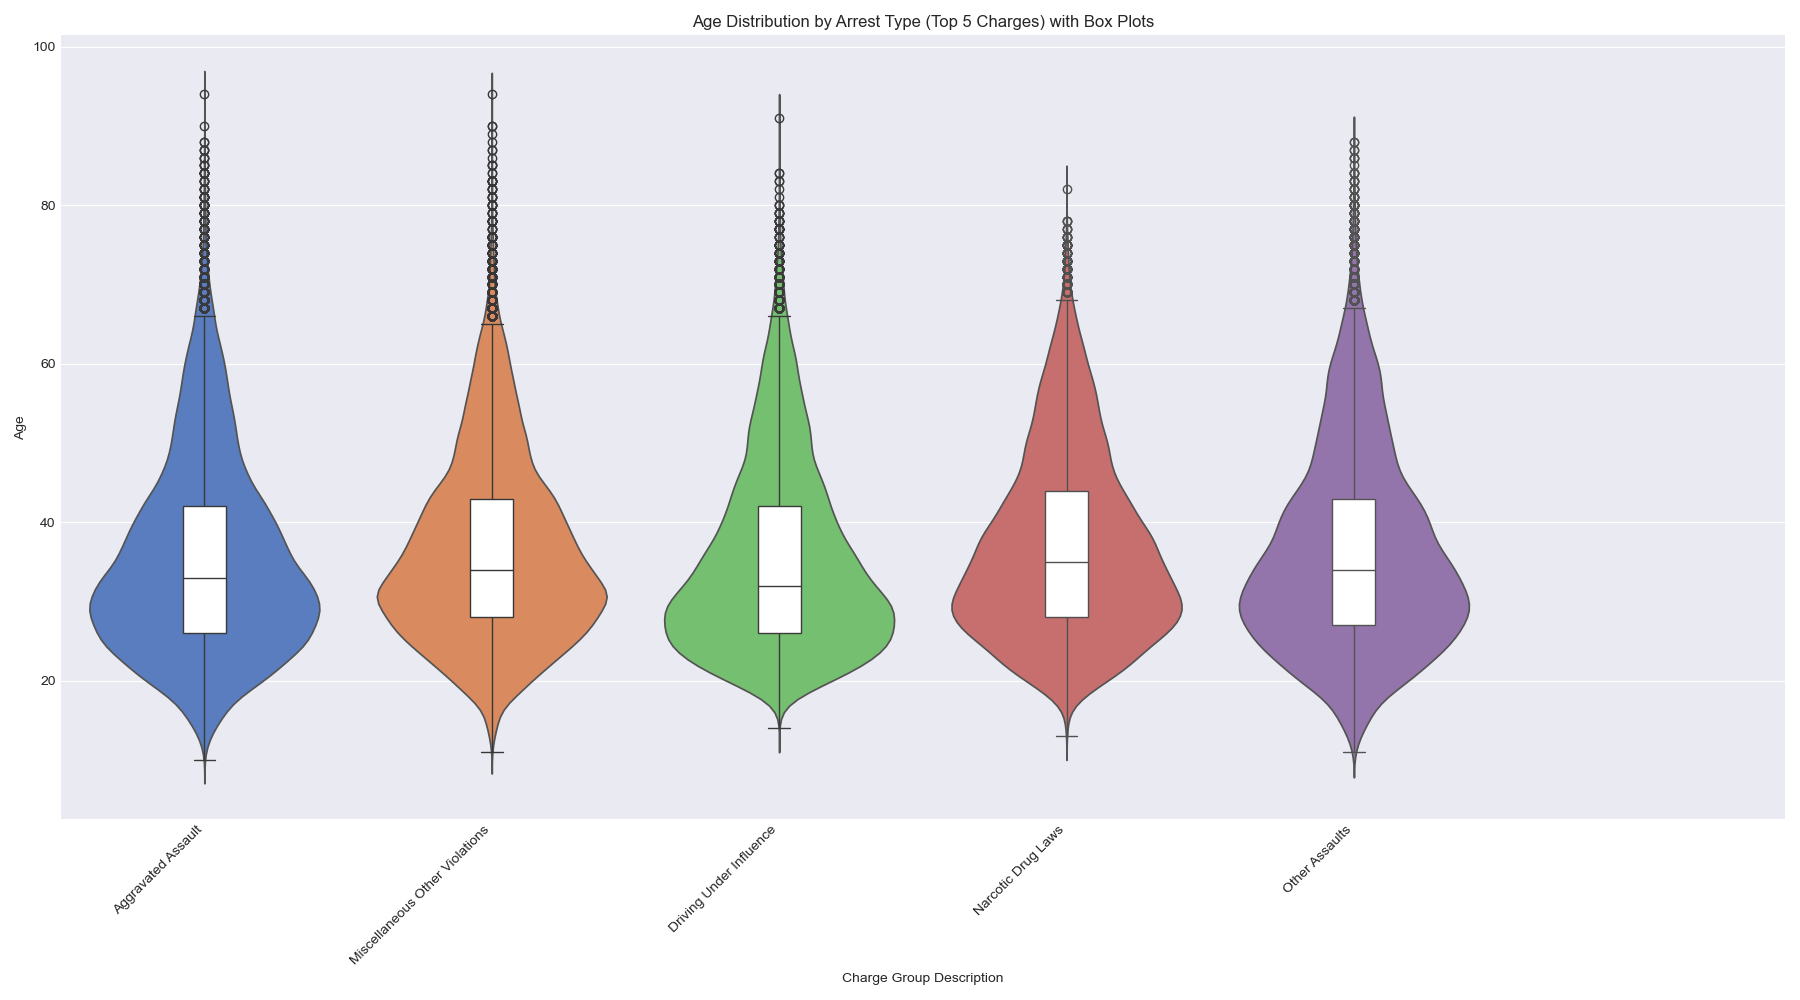
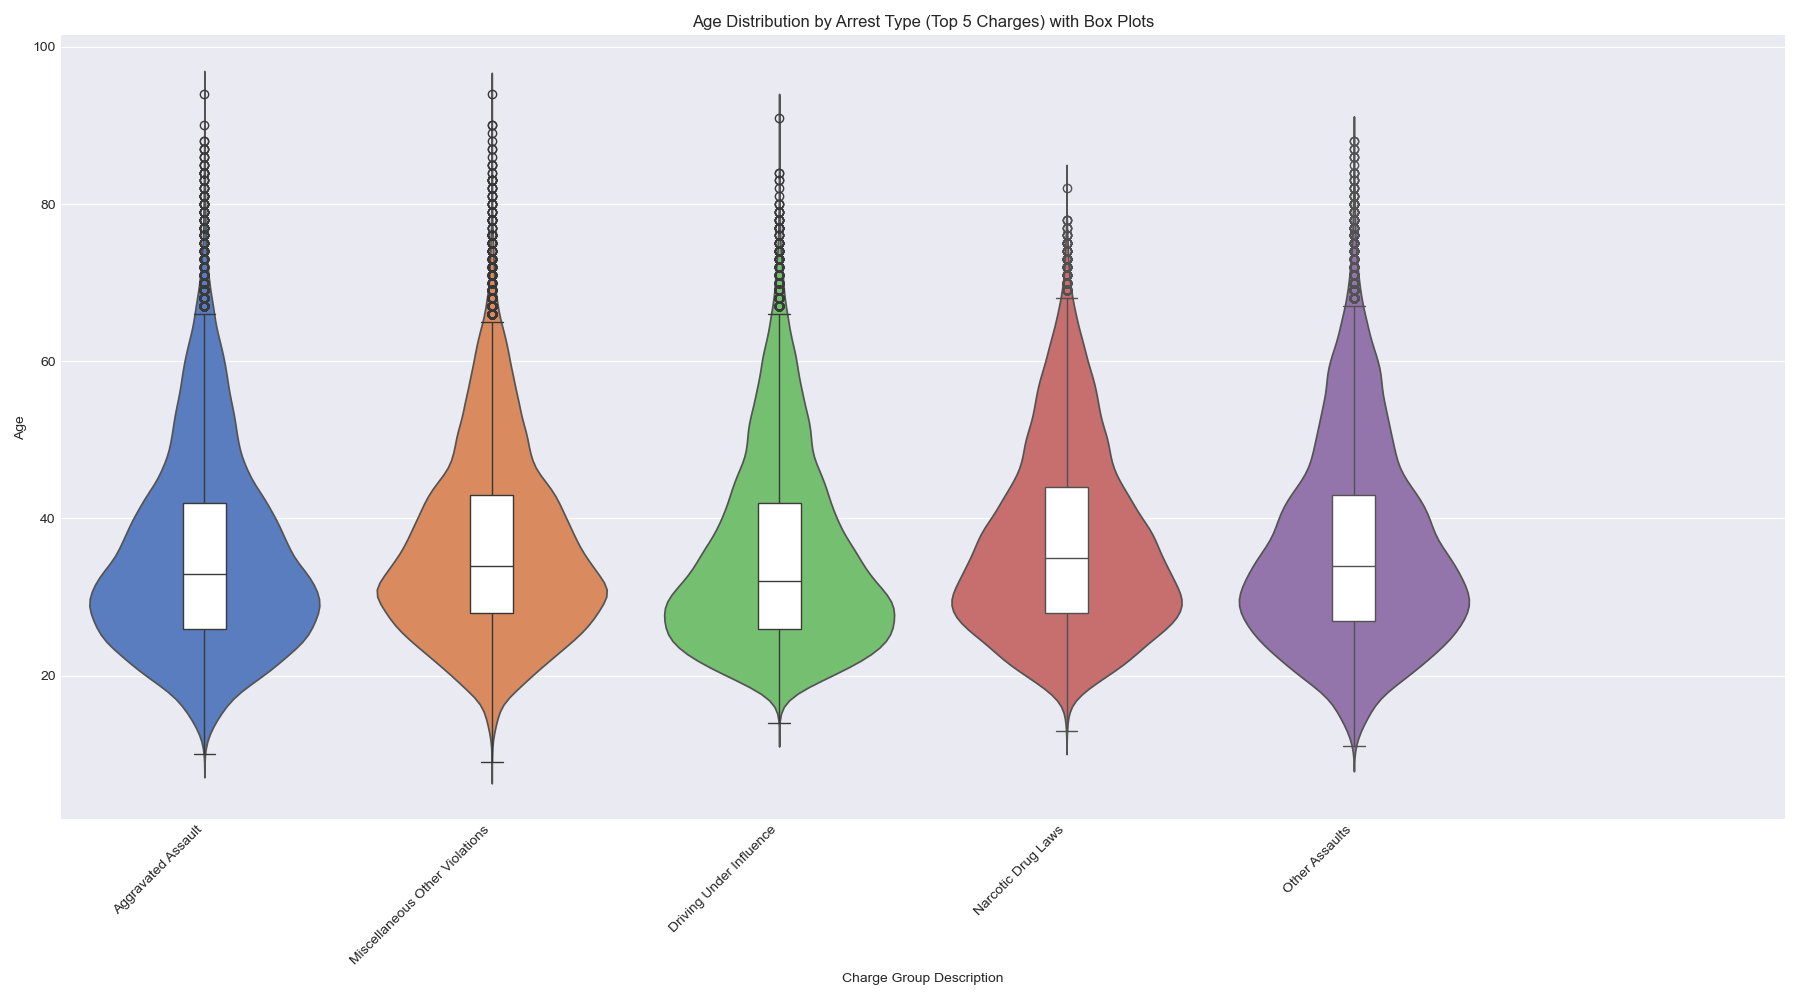
UPDATE

diff --git a/Data/data_analysis.py b/Data/data_analysis.py
@@ -100,7 +100,7 @@ print("\nAge statistics before cleaning:")
 print(df_clean['Age'].describe())
 
 # Fix age outliers (e.g., assume valid age range is 10-100)
-df_clean = df_clean[(df_clean['Age'] >= 10) & (df_clean['Age'] <= 100)]
+df_clean = df_clean[(df_clean['Age'] >= 0) & (df_clean['Age'] <= 100)]
 print("\nAge statistics after cleaning:")
 print(df_clean['Age'].describe())
 
@@ -124,15 +124,23 @@ for col in categorical_cols:
             df_clean = pd.concat([df_clean, dummies], axis=1)
             print(f"Created {len(dummies.columns)} dummy variables for {col}")
 
-# Create a more general location feature using LAT and LON
+# Create a standardized GeoJSON feature for each location
 if 'LAT' in df_clean.columns and 'LON' in df_clean.columns:
-    # Round coordinates to group nearby locations
-    df_clean['Location_Cluster'] = df_clean.apply(
-        lambda row: f"{round(row['LAT'], 2)}_{round(row['LON'], 2)}" 
-        if pd.notnull(row['LAT']) and pd.notnull(row['LON']) else "Unknown", 
+    # Create GeoJSON Point features
+    df_clean['Location_GeoJSON'] = df_clean.apply(
+        lambda row: {
+            "type": "Feature",
+            "geometry": {
+                "type": "Point",
+                "coordinates": [float(row['LON']), float(row['LAT'])]
+            },
+            "properties": {
+                "cluster_id": f"{round(row['LAT'], 2)}_{round(row['LON'], 2)}"
+            }
+        } if pd.notnull(row['LAT']) and pd.notnull(row['LON']) else None,
         axis=1
     )
-    print(f"Created Location_Cluster feature with {df_clean['Location_Cluster'].nunique()} unique areas")
+    print(f"Created GeoJSON features for {df_clean['Location_GeoJSON'].notna().sum()} locations")
 
 # Step 5: Data Visualization
 # ------------------------------------------------------------
